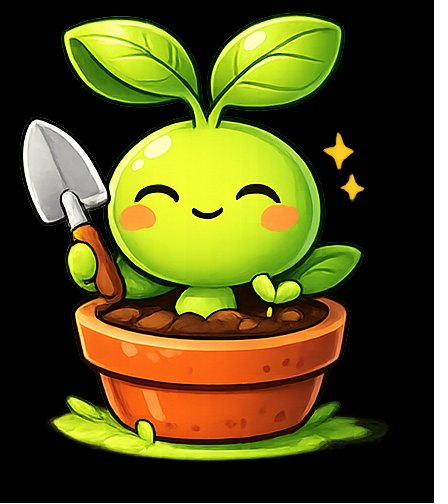
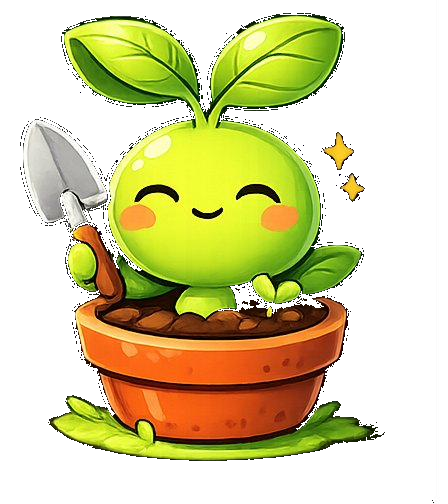
fix: transparent mascot backgrounds, remove Apple login, fix feature card text wrapping

diff --git a/app/page.tsx b/app/page.tsx
@@ -417,7 +417,9 @@ export default function LandingPage() {
       </section>
 
       {/* ── EXPLODED GARDEN SCROLL SECTION ──────────────────────── */}
+      {/* Disabled until exploded view video is ready
       <ExplodedGarden />
+      */}
 
       {/* ── FEATURES ────────────────────────────────────────────── */}
       <section id="features" className="py-32 px-6 bg-cream">
@@ -440,20 +442,18 @@ export default function LandingPage() {
                 {/* Grain overlay */}
                 <div className="absolute inset-0 bg-grain opacity-50 rounded-3xl pointer-events-none" />
 
-                <div className="relative z-10 flex flex-col h-full">
-                  <span className="text-3xl mb-4">{f.emoji}</span>
+                <div className="relative z-10 h-full">
+                  <span className="text-3xl mb-4 block">{f.emoji}</span>
+                  {/* Mascot floated right so text wraps around it */}
+                  <div className="float-right ml-4 mb-2 opacity-40 group-hover:opacity-60 transition-opacity duration-300">
+                    <Image src={f.mascot} alt="" width={120} height={120} />
+                  </div>
                   <h3 className="font-display text-white text-2xl font-black mb-3 tracking-tight">
                     {f.title}
                   </h3>
-                  <p className="text-white/60 font-body text-base leading-relaxed flex-1">
+                  <p className="text-white/60 font-body text-base leading-relaxed">
                     {f.desc}
                   </p>
-
-                  {/* Mascot in corner */}
-                  <div className="absolute -bottom-4 -right-4 opacity-30 group-hover:opacity-50 transition-opacity duration-300">
-                    <Image src={f.mascot} alt="" width={120} height={120}
-                      className="drop-shadow-xl" />
-                  </div>
                 </div>
               </div>
             ))}

diff --git a/app/(auth)/login/page.tsx b/app/(auth)/login/page.tsx
@@ -59,7 +59,7 @@ export default function LoginPage() {
             Sign in to start growing. Your garden syncs across all your devices.
           </p>
 
-          {/* Sign in with Apple */}
+          {/* Sign in with Apple — disabled until Apple Developer setup is complete
           <button
             onClick={() => signIn('apple')}
             disabled={loading !== null}
@@ -74,12 +74,13 @@ export default function LoginPage() {
             )}
             Continue with Apple
           </button>
+          */}
 
           {/* Sign in with Google */}
           <button
             onClick={() => signIn('google')}
             disabled={loading !== null}
-            className="w-full flex items-center justify-center gap-3 bg-white/5 hover:bg-white/10 disabled:opacity-60 border border-green-700/40 text-white font-body font-semibold text-base py-4 px-6 rounded-xl transition-all duration-200 hover:-translate-y-px"
+            className="w-full flex items-center justify-center gap-3 bg-white hover:bg-gray-100 disabled:opacity-60 text-black font-body font-bold text-base py-4 px-6 rounded-xl transition-all duration-200 hover:-translate-y-px"
           >
             {loading === 'google' ? (
               <span className="w-5 h-5 border-2 border-white/30 border-t-white rounded-full animate-spin" />
